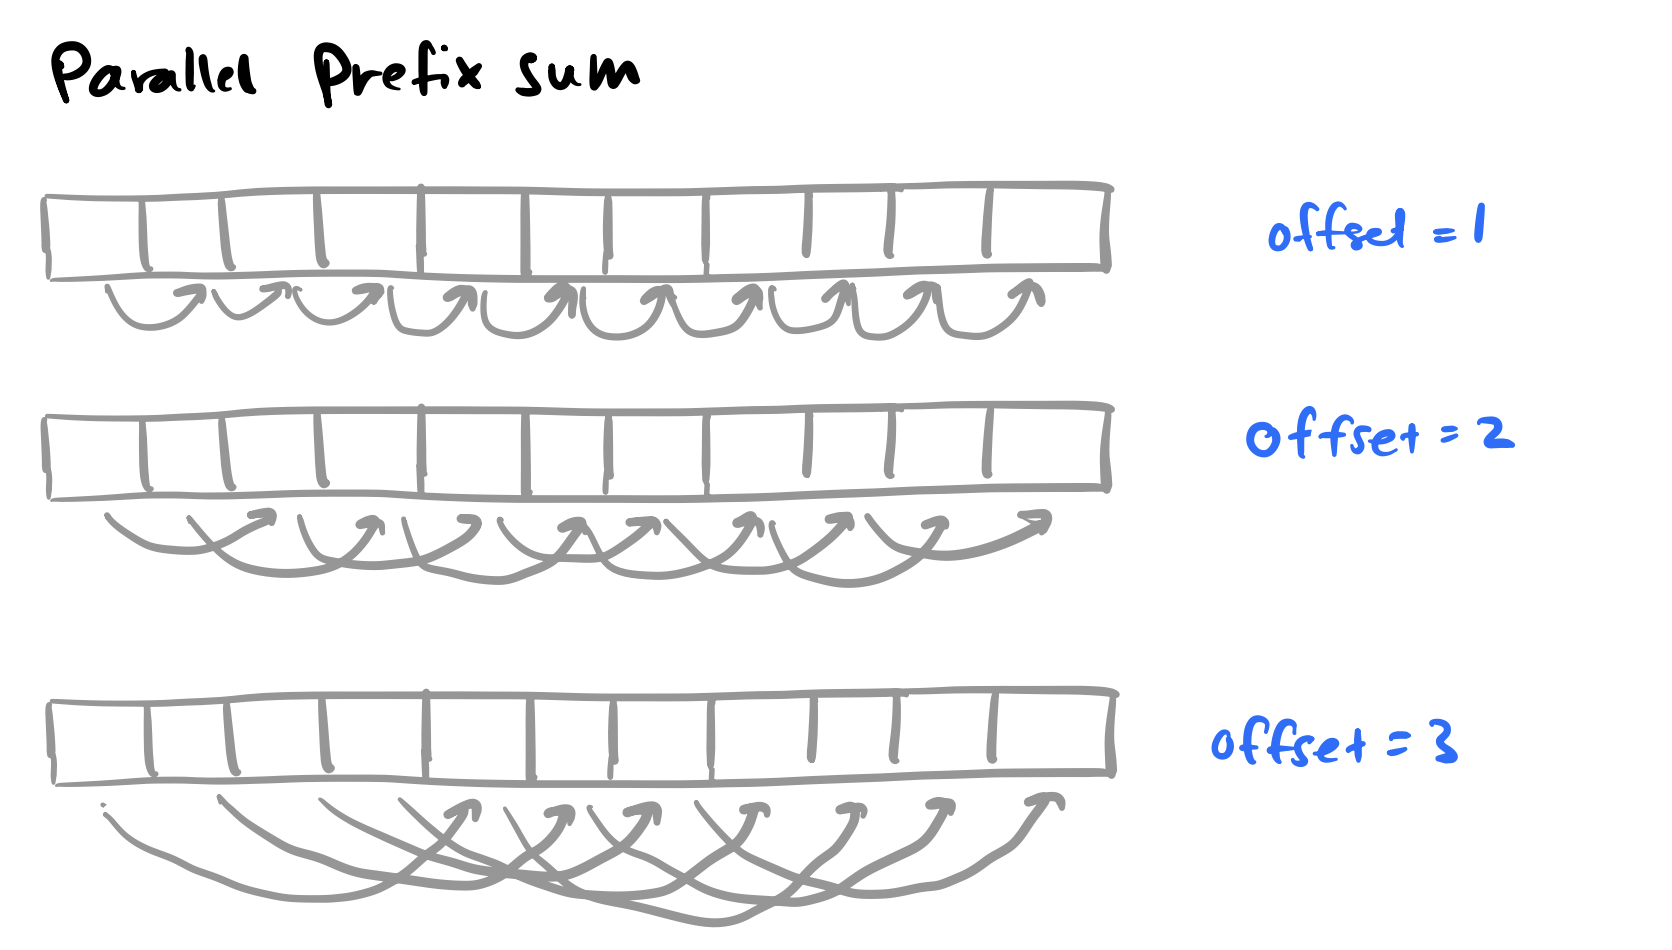
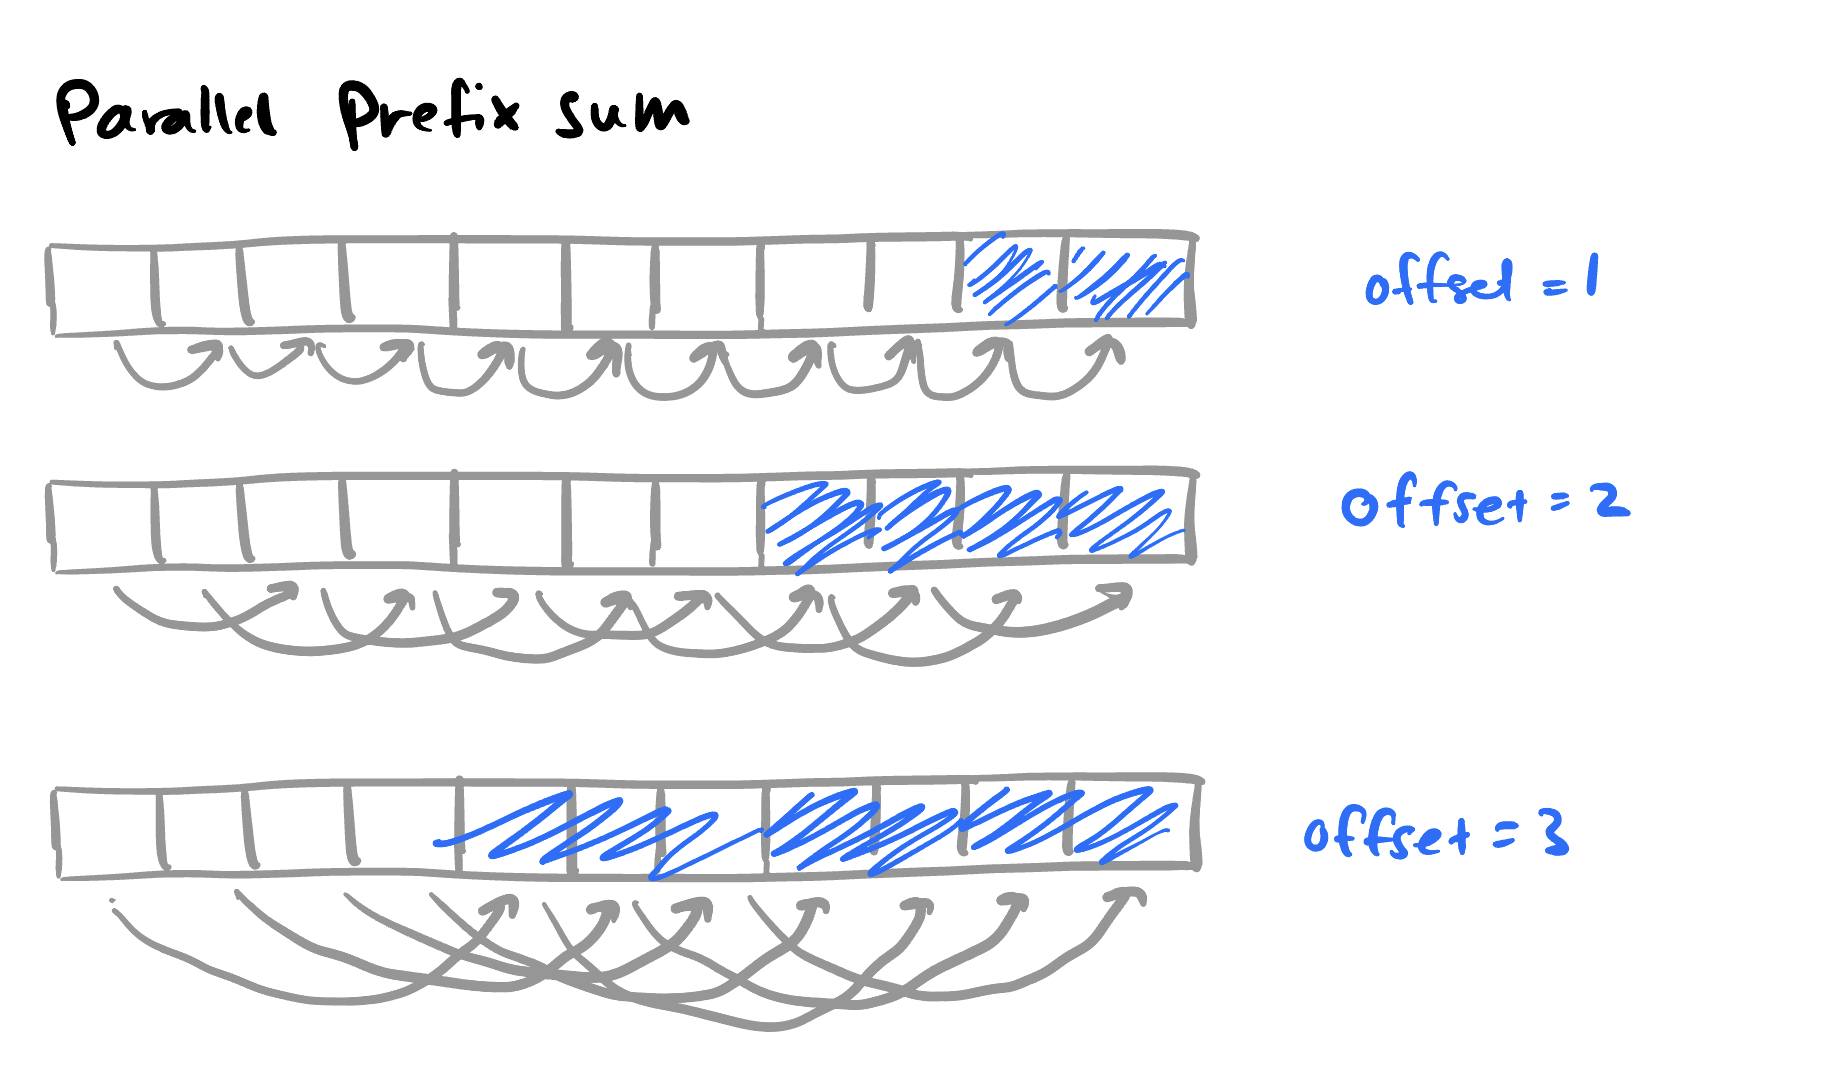
Update prefix sum figure and explanation

diff --git a/content/notes/mojo_gpu_puzzles.md b/content/notes/mojo_gpu_puzzles.md
@@ -71,3 +71,38 @@ My solutions are [available here.](https://github.com/nikhilJain17/mojo-gpu-puzz
 
 {{< figure src="/images/mojo_gpu_puzzles/parallel_prefix_sum.png" class="media-figure" alt="Double offset at each iteration." >}}
 
+This is the first algorithm where you really have to change your way of thinking from sequential to parallel. 
+For an array of size $n$, we iterate $\log{2}{n}$ times to calculate $arr[i] = arr[i-offset]$, doubling $offset$ at each iteration.
+The intuition is that at each step, the value at index $k$ knows about twice as many values as it did last iteration, looking backwards from index $k$.
+
+
+Here is a brief sketch of a proof:
+
+**Claim:** After iteration $k$, each thread $i$ holds the sum of up to $2^k$ elements in the range $[\max(0, i-2^k+1), i]$.
+
+**Base case:** At iteration $0$, each thread $i$ only knows about its own value at index $i$ (i.e., the array is unmodified).
+
+**Inductive step:** Assume the claim is true for iteration $k$. Then thread $i$ holds the sum of elements in the range
+
+$$
+[\max(0, i-2^k+1), i]
+$$
+
+and thread $i-2^k$ holds the sum of elements in the range
+
+$$
+[\max(0, (i-2^k)-2^k+1), i-2^k]
+= [\max(0, i-2^{k+1}+1), i-2^k].
+$$
+
+Notice that these ranges are adjacent, nonoverlapping, and both contain $2^k$ elements (unless truncated due to indexing). So at iteration $k+1$, thread $i$ adds thread $i-2^k$'s sum to its current sum, obtaining the sum of elements in the range
+
+$$
+[\max(0, i-2^{k+1}+1), i].
+$$
+
+Thus, the claim holds for iteration $k+1$.
+
+If $i < 2^k$, there is no thread $i-2^k$. However, thread $i$ already holds the sum of all elements from index $0$ to $i$, so the claim still holds.
+
+**Conclusion:** After $\lceil \log_2 n \rceil$ iterations, $2^k \ge n$, so every thread $i$ holds the sum of elements from index $0$ to $i$. Therefore, the algorithm computes the correct prefix sums.
